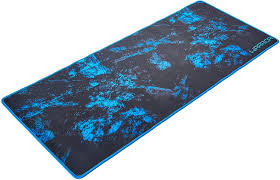
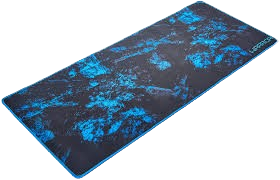
Add files via upload

diff --git a/informa.produto.1.html b/informa.produto.1.html
@@ -1,0 +1,179 @@
+<!DOCTYPE html>
+<html lang="pt-br">
+<head>
+    <meta charset="UTF-8">
+    <meta name="viewport" content="width=device-width, initial-scale=1.0">
+    <title>Informações do Produto</title> 
+    <link rel="stylesheet" href="informa.css">
+</head>
+<body>
+<main>
+
+<header>
+    
+    <p class="botao_produto"><center><a class="letra_botao" href="index.html"><img class="logo" src="imagens/logotipo-star-tecnologia-png" alt="logotipo"></a></center></p>
+
+</header>
+
+
+        <div class="card_informa">
+
+<p>Características:
+
+<p>- Marca: Acer</p>
+
+- Modelo: UM.UX2AA.P02
+
+ 
+
+Especificações:
+
+ 
+
+Cor:
+
+- Preto e Vermelho
+
+ 
+
+Tela:
+
+- Tamanho: 23.6"
+
+- Resolução: FHD (1920 x 1080)
+
+- Reflexo: Anti reflexo
+
+- Painel: VA
+
+- Contraste (ACM): 100 milhão:1 max
+
+- Brilho: Nativo 400nits
+
+- Modo HDR400: Peak 400nits
+
+- Ângulo de visão: 178° (H), 178° (V)
+
+- Cores: 16.7 milhões
+
+- Bits: 8 bit
+
+- AMD® FreeSync™
+
+- Black boost
+
+ 
+
+Tempo de resposta:
+
+- 4 ms (G para G) ou 1 ms (VRB)*
+
+ 
+
+* As taxas de atualização reais podem variar dependendo das especificações / hardware e / ou configuração do computador.
+
+ 
+
+Conforto:
+
+- Flicker-Less
+
+- Blue-Light
+
+- Acer Comfyview
+
+ 
+
+Usabilidade:
+
+- Inclinação de – 5° ~ 25°
+
+- Rotação: 360°
+
+- VESA (Montagem na parede) 100 x 100 mm
+
+ 
+
+Máximo res. E taxa de atualização:
+
+- HDMI 1920x1080 @120Hz
+
+- HDMI 1920x1080 @144Hz
+
+- DP: 1920x1080 @144Hz
+
+ 
+
+Rotação e Ajustes:
+
+- Rotação de 360°
+
+- Ajuste de altura de 120mm
+
+ 
+
+Entradas:
+
+- 1 x HDMI (v1.4)
+
+- 1 x HDMI2 (2.0)
+
+- 1 x DisplayPort (1.2a)
+
+- 1 x Saída de Áudio
+
+ 
+
+Alto falantes:
+
+- 2x 3W
+
+ 
+
+Fonte de energia:
+
+- Externa 32W (100-240V)
+
+ 
+
+Consumo de energia (ENERGYSTAR®):
+
+- Sleep: 0.5W
+
+- On: 28W
+
+- Off: 0.5W
+
+ 
+
+Conteúdo da embalagem:
+
+- 1 x Monitor Gamer Acer Nitro XZ242Q
+
+- 1 x Base do monitor
+
+- 1 x Manual em português
+
+- 1 x Termo de garantia
+
+- 1 x Cabo HDMI
+
+- 1 x Cabo de força
+
+Garantia:
+
+1 ano de garantia (3 meses de garantia legal + 9 meses de garantia contratual junto ao fabricante)
+
+Peso:
+
+8339 gramas (bruto com embalagem)
+
+</p>
+               
+        </div>
+
+
+
+</main>
+</body>
+</html>

diff --git a/compra.1.css b/compra.1.css
@@ -2,13 +2,13 @@ body{
     background-color: rgb(34, 0, 73);
 }
 
-.card{
+.card_c{
     display: flex;
     flex-direction: column;
     justify-content: space-between;
     padding: 50px;
     align-items: center;
-    border: rgb(150, 0, 0) 10px solid;
+    border: rgb(94, 228, 255) 10px solid;
     background-color: rgb(255, 255, 255);
     width: 800px;
     height: 500px;
@@ -32,23 +32,43 @@ body{
 }
 
 .botao_produto{
-    font-size: 25px;
+    font-size: 2px;
     background-color: rgb(28, 15, 175);
-    width: 50%;
+    width: 25%;
     text-decoration: none;
-    height: 50px;
-    border-radius: 20px;
+    height: 40px;
+    border-radius: 200px;
 }
 
 .letra_botao{
     display: block;
     text-align: center;
     text-decoration: none;
-    color: rgb(153, 20, 20);
+    color: rgb(0, 0, 0);
 
 }
 
+.botao_carrinho{
+    font-size: 25px;
+    background-color: rgb(43, 43, 43);
+    width: 10%;
+    text-decoration: none;
+    height: 50px;
+    border-radius: 20px;
+}
+
+.letra_botao_carrinho{
+    display: block;
+    text-align: center;
+    text-decoration: none;
+    color: rgb(255, 255, 255);
+
+} 
 
 .botao_produto{
     font-size: xx-large;
+}
+
+.letra_botao_s{
+    color: rgb(255, 255, 255);
 }

diff --git a/compra.1.html b/compra.1.html
@@ -1,24 +1,23 @@
 <!DOCTYPE html>
-<html lang="en">
+<html lang="pt-br">
 <head>
     <meta charset="UTF-8">
     <meta name="viewport" content="width=device-width, initial-scale=1.0">
     <title>Document</title>
     <link rel="stylesheet" href="compra.1.css">
 </head>
-<header>
-    
-</header>
 <body>
-    <fieldset>
-    <center>
-    <div class="card_pao">
-                <img src="imagens/moitor.jpeg" class="imagem_produto" alt="">
-                <p class="d_pinturi">Monitor Gamer Acer Nitro 23.6' Curvo Full HD 144hz</p>
-                <p class="p_pinturi">R$ 1.999,00</p>
-                <p class="botao_pinturi"><a class="letra_botao" href="compra.1.html">Comprar</a></p>
-        </div>    
-    </center>
+        <fieldset>
+                <p class="botao_produto_s"><a class="letra_botao_s" href="index.html">X</a></p>
+
+        <div class="card">
+                <img src="imagens/moitor-removebg-preview.png" class="imagem_produto" alt="">
+                <p class="d_produto">Monitor Gamer Acer Nitro 23.6' Curvo Full HD 144hz</p>
+                <p class="p_produto">R$ 1.999,00</p>
+                <p class="botao_produto"><a class="letra_botao" href="vtx.html">Comprar</a></p>
+                <p class="botao_produto"><a class="letra_botao" href="vtx.html">Carrinho</a></p>
+                
+        </div>
     </fieldset>
 </body>
 </html>

diff --git a/compra.2.html b/compra.2.html
@@ -7,8 +7,9 @@
     <link rel="stylesheet" href="compra.2.css">
 </head>
 <body>
-                <p class="botao_produto_s"><a class="letra_botao_s" href="index.html"><-</a></p>
-<center>
+        <fieldset>
+                <p class="botao_produto_s"><a class="letra_botao_s" href="index.html">X</a></p>
+
         <div class="card">
                 <img src="imagens/redragon.png" class="imagem_produto" alt="">
                 <p class="d_produto">Redragon Shiva K512 RGB</p>
@@ -16,6 +17,6 @@
                 <p class="botao_produto"><a class="letra_botao" href="vtx.html">Comprar</a></p>
                 
         </div>
-</center>
+</fieldset>
 </body>
 </html>

diff --git a/index.html b/index.html
@@ -21,7 +21,7 @@
         </div>
         <div class="pais">
             <div class="card">
-                <img src="imagens/moitor.jpeg" class="imagem_produto" alt="">
+                <img src="imagens/moitor-removebg-preview.png" class="imagem_produto" alt="">
                 <p class="d_produto">Monitor Gamer Acer Nitro 23.6' Curvo Full HD 144hz</p>
                 <p class="p_produto">R$ 1.999,00</p>
                 <p class="botao_produto"><a class="letra_botao" href="compra.1.html">Comprar</a></p>
@@ -45,7 +45,7 @@
         </div>
 
         <div class="card">
-                <img src="imagens/mouse.jpeg" class="imagem_produto" alt="">
+                <img src="imagens/mouse.png" class="imagem_produto" alt="">
                 <p class="d_produto">Mouse Gamer Fortrek Crusader 12800dpi Branco</p>
                 <p class="p_produto">R$ 59,99</p>
                 <p class="botao_produto"><a class="letra_botao" href="vtx.html">Comprar</a></p>
@@ -61,7 +61,7 @@
         </div>
 
         <div class="card">
-                <img src="imagens/1xg.jpg" class="imagem_produto" alt="">
+                <img src="imagens/1xg-removebg-preview.png" class="imagem_produto" alt="">
                 <p class="d_produto">Headset Gamer Sem Fio Logitech G733</p>
                 <p class="p_produto">R$ 285,90</p>
                 <p class="botao_produto"><a class="letra_botao" href="vtx.html">Comprar</a></p>

diff --git a/compra.2.css b/compra.2.css
@@ -68,3 +68,7 @@ body{
 .botao_produto{
     font-size: xx-large;
 }
+
+.letra_botao_s{
+    color: rgb(255, 255, 255);
+}

diff --git a/cadastro.html b/cadastro.html
@@ -41,6 +41,5 @@
          <div id="cadastro"></div>
          <br>
          <p></p><button onclick="Cadastrar()">Cadastrar</button>    
-<fieldset>
 </body>
 </html>